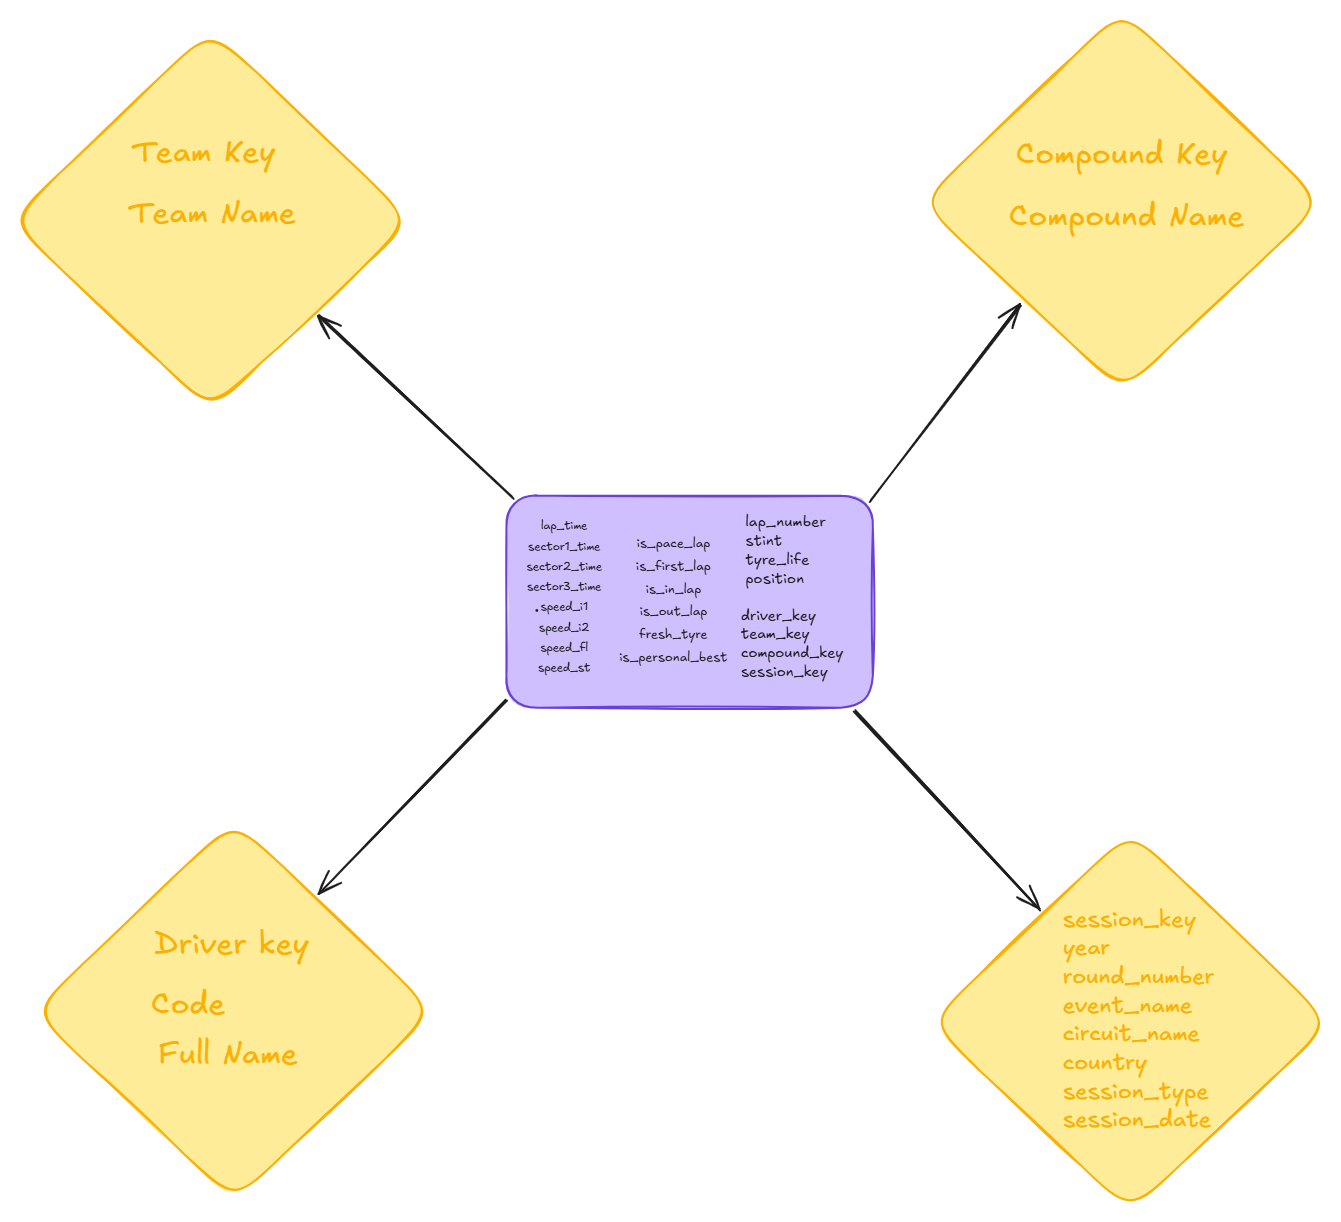
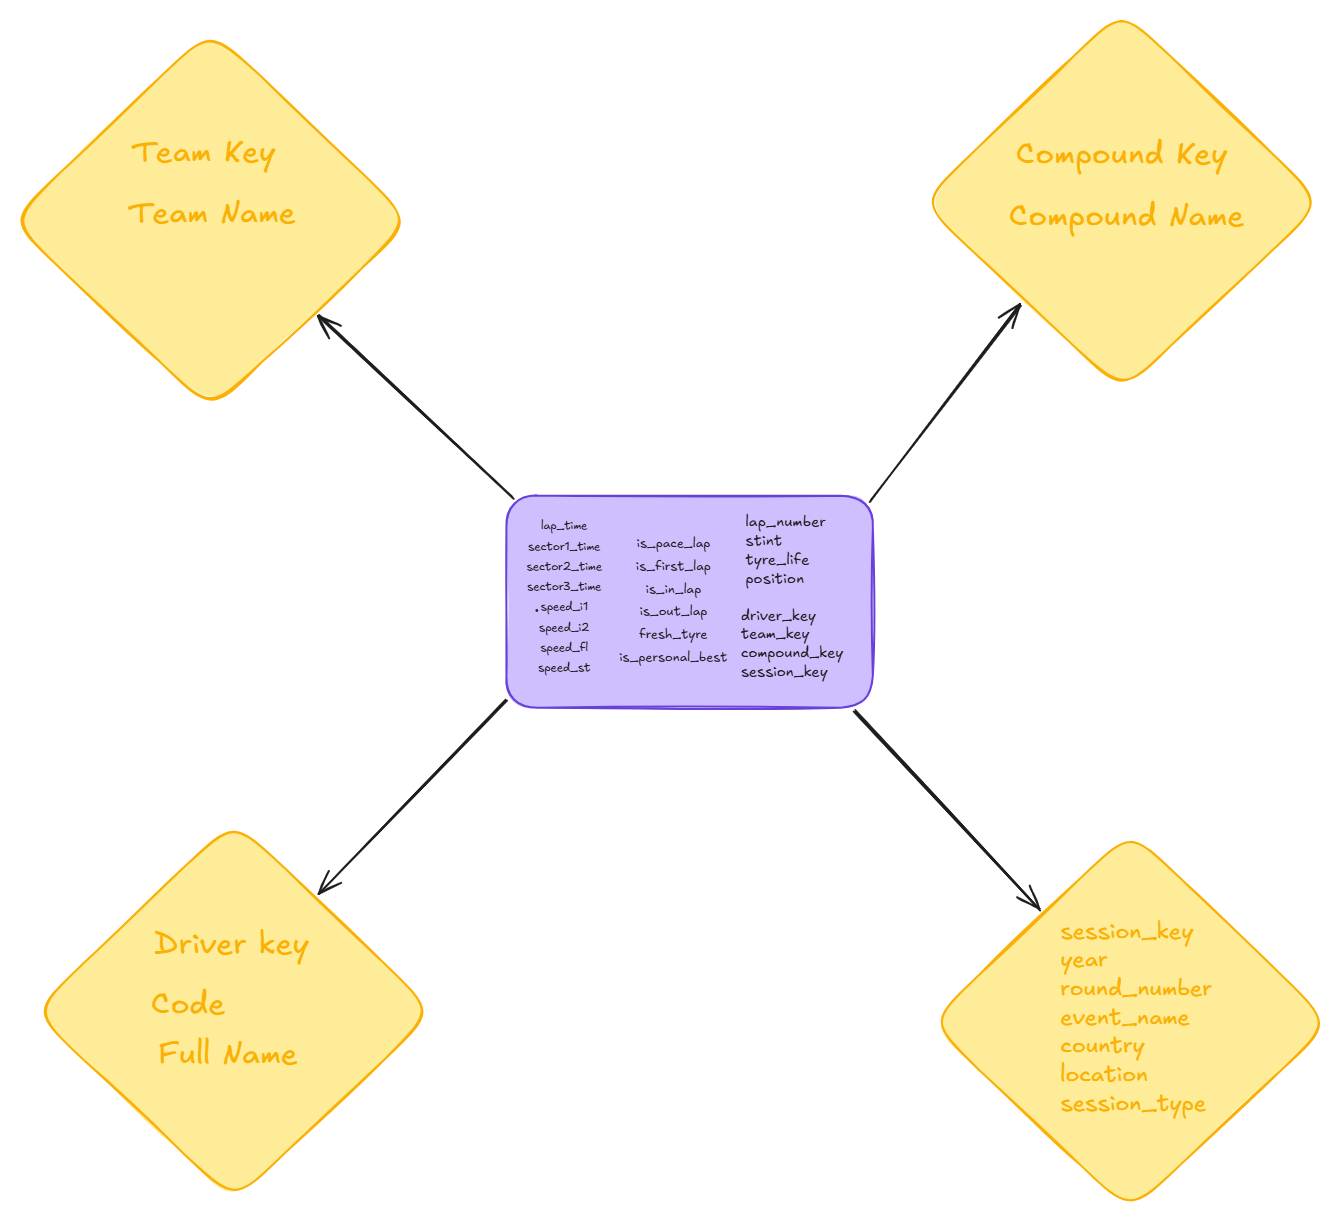
docs: star schema diagram and session dimension decisions

Changed region(s): [[0.7949, 0.7463, 0.9172, 0.9329]]

diff --git a/DECISIONS.md b/DECISIONS.md
@@ -38,3 +38,16 @@ the driver would relabel historical laps.
 Circuit flattened into dim_session rather than a separate dim_circuit.
 Keeps every dimension one hop from the fact.
 
+
+## dim_session
+One row per session, not per event. A race weekend is one event with
+five sessions; the key must be year + round + session type so that
+qualifying and race laps from the same weekend stay separate.
+
+year and session_type are not in session.event. They come from the
+get_session() arguments and are stamped on when the dimension is built.
+
+## Circuit identifier
+FastF1 gives Location ("Barcelona"), not a circuit name. Using Location
+as the circuit identifier rather than inventing a track name that is
+not in the source.
